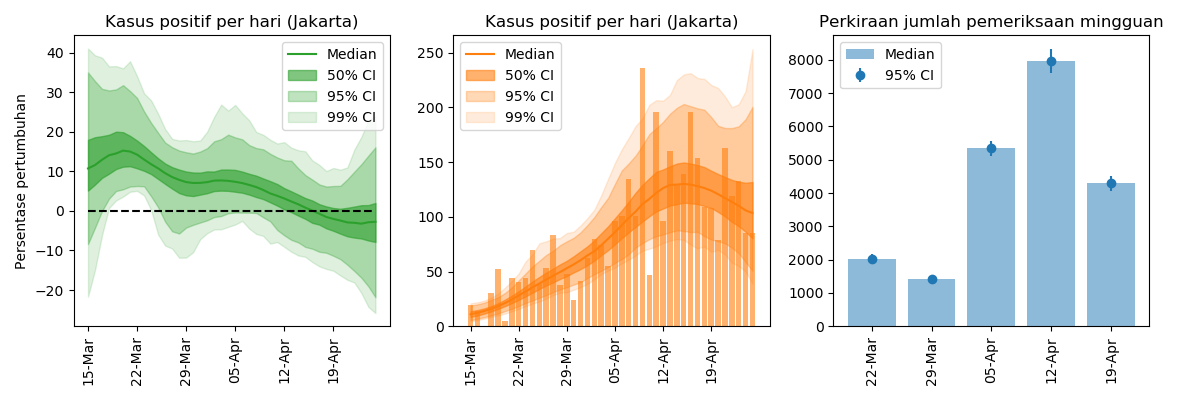
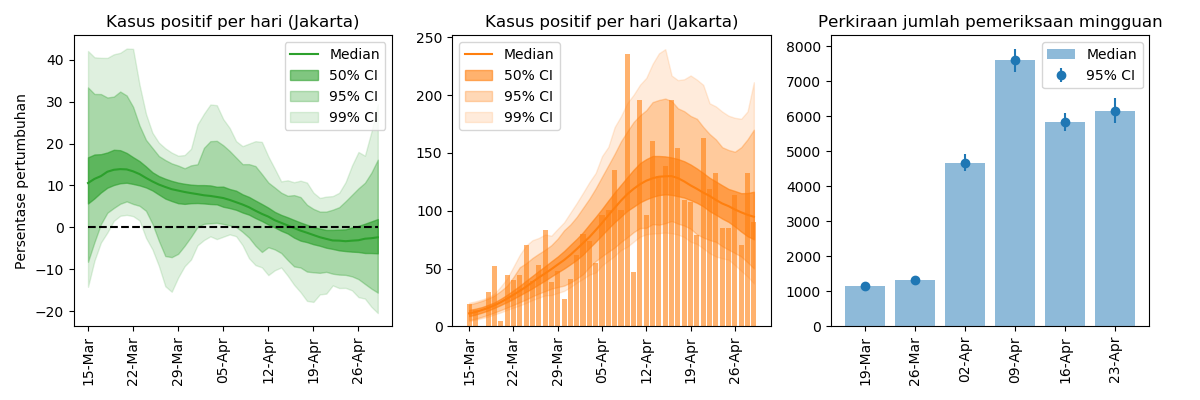
Update curve

diff --git a/idcovid19.md b/idcovid19.md
@@ -8,47 +8,47 @@ permalink: /idcovid19/
 ## Apakah kurva penyebaran telah turun?
 
 Sumber data: [KawalCOVID19](https://kawalcovid19.id/)<br/>
-Diperbarui pada: 26/04/2020<br/>
+Diperbarui pada: 29/04/2020<br/>
 Metode dapat dilihat di [sini]({{ site.baseurl }}/2020/04/17/COVID19-has-the-curve-flatten/)
 
 #### Indonesia
 
-Probabilitas menurun: \\(16\%\\)<br/>
-Hasil: belum dapat disimpulkan
+Probabilitas menurun: \\(56\%\\)<br/>
+Hasil: ada indikasi penurunan, tapi belum dapat dipastikan
 
 <img title="Indonesia" src="{{ site.baseurl }}/assets/idcovid19-daily/id_new_cases.png" width="100%"/>
 
 #### Jakarta
 
-Probabilitas menurun: \\(36\%\\)<br/>
-Hasil: kurva terlihat turun, tapi jumlah tes juga menurun
+Probabilitas menurun: \\(64\%\\)<br/>
+Hasil: ada indikasi penurunan, tapi belum dapat dipastikan
 
 <img title="Jakarta" src="{{ site.baseurl }}/assets/idcovid19-daily/idprov_jakarta_new_cases.png" width="100%"/>
 
 #### Jabar
 
-Probabilitas menurun: \\(15\%\\)<br/>
+Probabilitas menurun: \\(45\%\\)<br/>
 Hasil: belum dapat disimpulkan
 
 <img title="Jabar" src="{{ site.baseurl }}/assets/idcovid19-daily/idprov_jabar_new_cases.png" width="100%"/>
 
 #### Jatim
 
-Probabilitas menurun: \\(15\%\\)<br/>
+Probabilitas menurun: \\(46\%\\)<br/>
 Hasil: belum dapat disimpulkan
 
 <img title="Jatim" src="{{ site.baseurl }}/assets/idcovid19-daily/idprov_jatim_new_cases.png" width="100%"/>
 
 #### Jateng
 
-Probabilitas menurun: \\(10\%\\)<br/>
+Probabilitas menurun: \\(39\%\\)<br/>
 Hasil: belum dapat disimpulkan
 
 <img title="Jateng" src="{{ site.baseurl }}/assets/idcovid19-daily/idprov_jateng_new_cases.png" width="100%"/>
 
 #### Sulsel
 
-Probabilitas menurun: \\(25\%\\)<br/>
-Hasil: kurva terlihat turun, tapi jumlah tes juga menurun
+Probabilitas menurun: \\(61\%\\)<br/>
+Hasil: ada indikasi penurunan, tapi belum dapat dipastikan
 
 <img title="Sulsel" src="{{ site.baseurl }}/assets/idcovid19-daily/idprov_sulsel_new_cases.png" width="100%"/>
